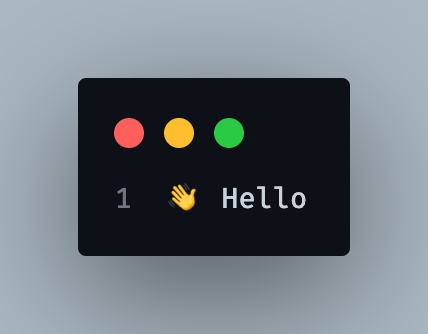
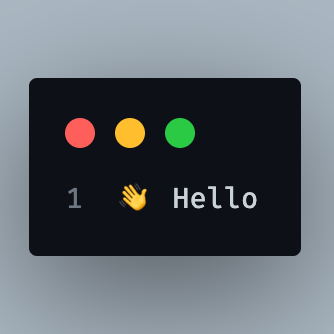
feat: Update img

diff --git a/src/pages/blog/index.tsx b/src/pages/blog/index.tsx
@@ -39,8 +39,8 @@ const Blog: NextPage<IBlog> = ({ articles }) => {
                   <Image
                     src={cover}
                     alt={cover}
-                    width={428}
-                    height={334}
+                    width={400}
+                    height={400}
                     className="hidden rounded-md lg:mr-4 lg:block"
                   />
                 ) : null}
